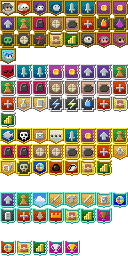
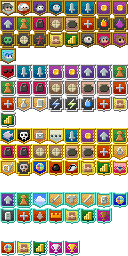
v0.0.7.1 New items added/Major bug fixed

Changed region(s): [[0.875, 0.625, 1.0, 0.6875]]

diff --git a/core/src/main/java/com/shatteredpixel/shatteredpixeldungeon/actors/hero/HeroClass.java b/core/src/main/java/com/shatteredpixel/shatteredpixeldungeon/actors/hero/HeroClass.java
@@ -55,12 +55,12 @@ import com.shatteredpixel.shatteredpixeldungeon.items.BrokenSeal;
 import com.shatteredpixel.shatteredpixeldungeon.items.Item;
 import com.shatteredpixel.shatteredpixeldungeon.items.PrincessMirror;
 import com.shatteredpixel.shatteredpixeldungeon.items.SpeedLoader;
+import com.shatteredpixel.shatteredpixeldungeon.items.TengusMask;
 import com.shatteredpixel.shatteredpixeldungeon.items.Waterskin;
 import com.shatteredpixel.shatteredpixeldungeon.items.armor.ClothArmor;
 import com.shatteredpixel.shatteredpixeldungeon.items.artifacts.CloakOfShadows;
 import com.shatteredpixel.shatteredpixeldungeon.items.bags.IceBox;
 import com.shatteredpixel.shatteredpixeldungeon.items.bags.VelvetPouch;
-import com.shatteredpixel.shatteredpixeldungeon.items.bombs.Bomb;
 import com.shatteredpixel.shatteredpixeldungeon.items.food.Food;
 import com.shatteredpixel.shatteredpixeldungeon.items.potions.PotionOfExperience;
 import com.shatteredpixel.shatteredpixeldungeon.items.potions.PotionOfFrost;
@@ -90,7 +90,6 @@ import com.shatteredpixel.shatteredpixeldungeon.items.scrolls.ScrollOfTeleportat
 import com.shatteredpixel.shatteredpixeldungeon.items.scrolls.ScrollOfTerror;
 import com.shatteredpixel.shatteredpixeldungeon.items.scrolls.ScrollOfTransmutation;
 import com.shatteredpixel.shatteredpixeldungeon.items.scrolls.ScrollOfUpgrade;
-import com.shatteredpixel.shatteredpixeldungeon.items.stones.StoneOfBlast;
 import com.shatteredpixel.shatteredpixeldungeon.items.wands.WandOfMagicMissile;
 import com.shatteredpixel.shatteredpixeldungeon.items.weapon.SpiritBow;
 import com.shatteredpixel.shatteredpixeldungeon.items.weapon.firearm.ApachePistol;
@@ -102,13 +101,14 @@ import com.shatteredpixel.shatteredpixeldungeon.items.weapon.melee.Krystallos;
 import com.shatteredpixel.shatteredpixeldungeon.items.weapon.melee.MagesStaff;
 import com.shatteredpixel.shatteredpixeldungeon.items.weapon.melee.RuinSpear;
 import com.shatteredpixel.shatteredpixeldungeon.items.weapon.melee.WornShortsword;
-import com.shatteredpixel.shatteredpixeldungeon.items.weapon.missiles.Javelin;
 import com.shatteredpixel.shatteredpixeldungeon.items.weapon.missiles.ThrowingKnife;
 import com.shatteredpixel.shatteredpixeldungeon.items.weapon.missiles.ThrowingSpike;
 import com.shatteredpixel.shatteredpixeldungeon.items.weapon.missiles.ThrowingStone;
-import com.shatteredpixel.shatteredpixeldungeon.items.weapon.weaponarm.Vendetta;
+import com.shatteredpixel.shatteredpixeldungeon.items.weapon.weaponarm.Draken;
+import com.shatteredpixel.shatteredpixeldungeon.items.weapon.weaponarm.Slash;
+import com.shatteredpixel.shatteredpixeldungeon.items.weapon.weaponarm.Thunderstrike;
+import com.shatteredpixel.shatteredpixeldungeon.items.weapon.weaponarm.Unconsiousness;
 import com.shatteredpixel.shatteredpixeldungeon.messages.Messages;
-import com.shatteredpixel.shatteredpixeldungeon.plants.Sungrass;
 import com.watabou.utils.DeviceCompat;
 
 public enum HeroClass {
@@ -186,14 +186,14 @@ public enum HeroClass {
 		plate.upgrade(8).collect();
 		 **/
 //erase this finish
-		new Vendetta().collect();
-		new PotionOfExperience().collect();
-		new WandOfMagicMissile().collect();
-		new StoneOfBlast().collect();
-		new ScrollOfIdentify().collect();
-		new Bomb().collect();
-		new Sungrass.Seed().collect();
-		new Javelin().collect();
+		Unconsiousness plate = new Unconsiousness();
+		plate.upgrade(10).collect();
+		PotionOfExperience enchan = new PotionOfExperience();
+		enchan.quantity(100).collect();
+		new TengusMask().collect();
+		new Slash().collect();
+		new Draken().collect();
+		new Thunderstrike().collect();
 
 		switch (this) {
 			case WARRIOR:

diff --git a/core/src/main/java/com/shatteredpixel/shatteredpixeldungeon/actors/Char.java b/core/src/main/java/com/shatteredpixel/shatteredpixeldungeon/actors/Char.java
@@ -51,12 +51,14 @@ import com.shatteredpixel.shatteredpixeldungeon.actors.buffs.Cripple;
 import com.shatteredpixel.shatteredpixeldungeon.actors.buffs.Doom;
 import com.shatteredpixel.shatteredpixeldungeon.actors.buffs.Dread;
 import com.shatteredpixel.shatteredpixeldungeon.actors.buffs.FireImbue;
+import com.shatteredpixel.shatteredpixeldungeon.actors.buffs.FlavourBuff;
 import com.shatteredpixel.shatteredpixeldungeon.actors.buffs.Frost;
 import com.shatteredpixel.shatteredpixeldungeon.actors.buffs.FrostImbue;
 import com.shatteredpixel.shatteredpixeldungeon.actors.buffs.Fury;
 import com.shatteredpixel.shatteredpixeldungeon.actors.buffs.Haste;
 import com.shatteredpixel.shatteredpixeldungeon.actors.buffs.Hex;
 import com.shatteredpixel.shatteredpixeldungeon.actors.buffs.Hunger;
+import com.shatteredpixel.shatteredpixeldungeon.actors.buffs.Invisibility;
 import com.shatteredpixel.shatteredpixeldungeon.actors.buffs.LanceBleeding;
 import com.shatteredpixel.shatteredpixeldungeon.actors.buffs.LanceBleedingBullet;
 import com.shatteredpixel.shatteredpixeldungeon.actors.buffs.LancePredationTracker;
@@ -139,6 +141,7 @@ import com.shatteredpixel.shatteredpixeldungeon.items.weapon.melee.RipperWeapon;
 import com.shatteredpixel.shatteredpixeldungeon.items.weapon.melee.WarpBlade;
 import com.shatteredpixel.shatteredpixeldungeon.items.weapon.missiles.MissileWeapon;
 import com.shatteredpixel.shatteredpixeldungeon.items.weapon.missiles.darts.ShockingDart;
+import com.shatteredpixel.shatteredpixeldungeon.items.weapon.weaponarm.Unconsiousness;
 import com.shatteredpixel.shatteredpixeldungeon.levels.Terrain;
 import com.shatteredpixel.shatteredpixeldungeon.levels.features.Chasm;
 import com.shatteredpixel.shatteredpixeldungeon.levels.features.Door;
@@ -540,6 +543,18 @@ public abstract class Char extends Actor {
 						dmg = enemy.HT;
 					}
 				}
+			}
+
+			if (!enemy.isAlive() && this instanceof Hero && hero.belongings.weapon() instanceof Unconsiousness) {
+				new FlavourBuff() {
+					{
+						this.actPriority = 100;
+					}
+					public boolean act() {
+						Buff.affect(Dungeon.hero, Invisibility.class, Unconsiousness.levelOfWeapon);
+						return super.act();
+					}
+				}.attachTo(this);
 			}
 
 			for (ChampionEnemy buff : buffs(ChampionEnemy.class)){

diff --git a/core/src/main/java/com/shatteredpixel/shatteredpixeldungeon/items/Generator.java b/core/src/main/java/com/shatteredpixel/shatteredpixeldungeon/items/Generator.java
@@ -44,6 +44,7 @@ import com.shatteredpixel.shatteredpixeldungeon.items.artifacts.CloakOfShadows;
 import com.shatteredpixel.shatteredpixeldungeon.items.artifacts.DriedRose;
 import com.shatteredpixel.shatteredpixeldungeon.items.artifacts.EtherealChains;
 import com.shatteredpixel.shatteredpixeldungeon.items.artifacts.HornOfPlenty;
+import com.shatteredpixel.shatteredpixeldungeon.items.artifacts.LamentConfiguration;
 import com.shatteredpixel.shatteredpixeldungeon.items.artifacts.MasterThievesArmband;
 import com.shatteredpixel.shatteredpixeldungeon.items.artifacts.OpIntensify;
 import com.shatteredpixel.shatteredpixeldungeon.items.artifacts.SandalsOfNature;
@@ -428,7 +429,7 @@ public class Generator {
 					Krystallos.class,
 					//PsionicBlade.class,
 			};
-			WEP_T1.probs = new float[]{ 1, 0, 1, 1, 1, 1 }; //, 1, 1, 0
+			WEP_T1.probs = new float[]{ 1, 0, 1, 1, 1, 1 }; //, 1, 0
 			
 			WEP_T2.classes = new Class<?>[]{
 					Shortsword.class,
@@ -652,9 +653,10 @@ public class Generator {
 					TimekeepersHourglass.class,
 					UnstableSpellbook.class,
 					AESARadar.class,
-					OpIntensify.class
+					OpIntensify.class,
+					LamentConfiguration.class
 			};
-			ARTIFACT.defaultProbs = new float[]{ 1, 1, 0, 1, 1, 1, 1, 1, 1, 1, 1, 1, 1 };
+			ARTIFACT.defaultProbs = new float[]{ 1, 1, 0, 1, 1, 1, 1, 1, 1, 1, 1, 1, 1, 1 };
 			ARTIFACT.probs = ARTIFACT.defaultProbs.clone();
 		}
 	}

diff --git a/core/src/main/java/com/shatteredpixel/shatteredpixeldungeon/items/artifacts/OpIntensify.java b/core/src/main/java/com/shatteredpixel/shatteredpixeldungeon/items/artifacts/OpIntensify.java
@@ -4,6 +4,7 @@ import com.shatteredpixel.shatteredpixeldungeon.Dungeon;
 import com.shatteredpixel.shatteredpixeldungeon.actors.buffs.Adrenaline;
 import com.shatteredpixel.shatteredpixeldungeon.actors.buffs.ArcaneArmor;
 import com.shatteredpixel.shatteredpixeldungeon.actors.buffs.Barkskin;
+import com.shatteredpixel.shatteredpixeldungeon.actors.buffs.Bleeding;
 import com.shatteredpixel.shatteredpixeldungeon.actors.buffs.Buff;
 import com.shatteredpixel.shatteredpixeldungeon.actors.buffs.FireImbue;
 import com.shatteredpixel.shatteredpixeldungeon.actors.buffs.Foresight;
@@ -18,6 +19,7 @@ import com.shatteredpixel.shatteredpixeldungeon.items.rings.RingOfEnergy;
 import com.shatteredpixel.shatteredpixeldungeon.messages.Messages;
 import com.shatteredpixel.shatteredpixeldungeon.sprites.ItemSpriteSheet;
 import com.shatteredpixel.shatteredpixeldungeon.utils.GLog;
+import com.watabou.utils.Random;
 
 import java.util.ArrayList;
 
@@ -134,6 +136,8 @@ public class OpIntensify extends Artifact {
                     OpIntensify.this.charge++;
                     Item.updateQuickslot();
                 }
+            } else if (cursed && Random.Int(100) == 0){
+                Buff.affect(Dungeon.hero, Bleeding.class).set(5);
             }
             spend(1.0f);
             return true;

diff --git a/core/src/main/java/com/shatteredpixel/shatteredpixeldungeon/items/weapon/weaponarm/Unconsiousness.java b/core/src/main/java/com/shatteredpixel/shatteredpixeldungeon/items/weapon/weaponarm/Unconsiousness.java
@@ -12,10 +12,11 @@ import com.watabou.utils.Random;
 public class Unconsiousness extends MeleeWeapon {
 
     {
-        image = ItemSpriteSheet.DIRK;
+        image = ItemSpriteSheet.UNCONSIOUSNESS;
         hitSound = Assets.Sounds.HIT_STAB;
         hitSoundPitch = 1f;
 
+        weaponarm = true;
         tier = 3;
     }
 
@@ -33,7 +34,7 @@ public class Unconsiousness extends MeleeWeapon {
             Hero hero = (Hero)owner;
             Char enemy = hero.enemy();
             if (enemy instanceof Mob && ((Mob) enemy).surprisedBy(hero)) {
-                //deals 67% toward max to max on surprise, instead of min to max.
+                //deals 50% toward max to max on surprise, instead of min to max.
                 int diff = max() - min();
                 int damage = augment.damageFactor(Random.NormalIntRange(
                         min() + Math.round(diff*0.5f),
@@ -49,9 +50,9 @@ public class Unconsiousness extends MeleeWeapon {
     }
 
     @Override
-    public int proc(Char attacker, Char defender, int i) {
+    public int proc(Char attacker, Char defender, int damage) {
         levelOfWeapon = this.level();
-        return super.proc(attacker, defender, i);
+        return super.proc(attacker, defender, damage);
     }
 
     @Override

diff --git a/core/src/main/java/com/shatteredpixel/shatteredpixeldungeon/sprites/ItemSpriteSheet.java b/core/src/main/java/com/shatteredpixel/shatteredpixeldungeon/sprites/ItemSpriteSheet.java
@@ -456,7 +456,7 @@ public class ItemSpriteSheet {
 	public static final int DRAKEN				= WEAPONARMS+9;
 	static{
 		assignItemRect(VENDETTA 				,16, 16);
-		assignItemRect(STRIDENT 				,15, 15);
+		assignItemRect(STRIDENT 				,16, 16);
 		assignItemRect(UNCONSIOUSNESS 			,16, 16);
 		assignItemRect(HELLBLASTER	 			,16, 16);
 		assignItemRect(RAIDEN					,16, 16);
@@ -629,6 +629,7 @@ public class ItemSpriteSheet {
 	public static final int ARTIFACT_ROSE3      = ARTIFACTS+22;
 	public static final int ARTIFACT_RADAR		= ARTIFACTS+23;
 	public static final int ARTIFACT_PLUS		= ARTIFACTS+24;
+	public static final int ARTIFACT_LAMENT		= ARTIFACTS+25;
 	static{
 		assignItemRect(ARTIFACT_CLOAK,      9,  15);
 		assignItemRect(ARTIFACT_ARMBAND,    16, 11);
@@ -655,6 +656,7 @@ public class ItemSpriteSheet {
 		assignItemRect(ARTIFACT_ROSE3,      13, 15);
 		assignItemRect(ARTIFACT_RADAR,      16, 16);
 		assignItemRect(ARTIFACT_PLUS,       16, 16);
+		assignItemRect(ARTIFACT_LAMENT,     16, 16);
 	}
 
 	                                                                                    //16 free slots

diff --git a/core/src/main/java/com/shatteredpixel/shatteredpixeldungeon/Badges.java b/core/src/main/java/com/shatteredpixel/shatteredpixeldungeon/Badges.java
@@ -149,7 +149,7 @@ public class Badges {
 		BOSS_CHALLENGE_2            ( 84 ),
 		GAMES_PLAYED_3              ( 85, true ),
 		HIGH_SCORE_3                ( 86 ),
-		//DM301_KILL					( 87 ),
+		DM301_KILL					( 87 ),
 
 		//platinum
 		ITEM_LEVEL_5                ( 96 ),
@@ -199,6 +199,7 @@ public class Badges {
 		GAMES_PLAYED_4              ( 108, true ),
 		HIGH_SCORE_4                ( 109 ),
 		CHAMPION_1                  ( 110 ),
+		SHOPKEEPER_KILL				( 111 ),
 
 		//diamond
 		BOSS_CHALLENGE_5            ( 120 ),
@@ -1058,6 +1059,22 @@ public class Badges {
 		}
 
 		displayBadge( badge );
+	}
+
+	public static void validateDM301Kill() {
+		if (!local.contains( Badge.DM301_KILL )) {
+			Badge badge = Badge.DM301_KILL;
+			local.add( badge );
+			displayBadge( badge );
+		}
+	}
+
+	public static void validateShopkeeperKill() {
+		if (!local.contains( Badge.SHOPKEEPER_KILL )) {
+			Badge badge = Badge.SHOPKEEPER_KILL;
+			local.add( badge );
+			displayBadge( badge );
+		}
 	}
 	
 	//necessary in order to display the happy end badge in the surface scene

diff --git a/core/src/main/java/com/shatteredpixel/shatteredpixeldungeon/actors/mobs/Mob.java b/core/src/main/java/com/shatteredpixel/shatteredpixeldungeon/actors/mobs/Mob.java
@@ -89,7 +89,6 @@ import com.shatteredpixel.shatteredpixeldungeon.items.weapon.melee.MagesStaff;
 import com.shatteredpixel.shatteredpixeldungeon.items.weapon.melee.MeleeWeapon;
 import com.shatteredpixel.shatteredpixeldungeon.items.weapon.missiles.MissileWeapon;
 import com.shatteredpixel.shatteredpixeldungeon.items.weapon.missiles.darts.Dart;
-import com.shatteredpixel.shatteredpixeldungeon.items.weapon.weaponarm.Unconsiousness;
 import com.shatteredpixel.shatteredpixeldungeon.levels.Level;
 import com.shatteredpixel.shatteredpixeldungeon.levels.features.Chasm;
 import com.shatteredpixel.shatteredpixeldungeon.messages.Messages;
@@ -844,9 +843,6 @@ public abstract class Mob extends Char {
 						FirearmWeapon.Charger.killCount = 0;
 					}
 				}
-			}
-			if (cause == hero && hero.belongings.weapon instanceof Unconsiousness) {
-				Buff.affect(hero, Invisibility.class, Unconsiousness.levelOfWeapon);
 			}
 		}
 

diff --git a/core/src/main/java/com/shatteredpixel/shatteredpixeldungeon/items/scrolls/Scroll.java b/core/src/main/java/com/shatteredpixel/shatteredpixeldungeon/items/scrolls/Scroll.java
@@ -162,11 +162,11 @@ public abstract class Scroll extends Item {
 
 		if (action.equals( AC_READ )) {
 			
-			if (hero.buff(MagicImmune.class) != null){
+			if (hero.buff(MagicImmune.class) != null && !(this instanceof ScrollOfRemoveCurse2)){
 				GLog.w( Messages.get(this, "no_magic") );
-			} else if (hero.buff( Blindness.class ) != null) {
+			} else if (hero.buff( Blindness.class ) != null && !(this instanceof ScrollOfRemoveCurse2)) {
 				GLog.w(Messages.get(this, "blinded"));
-			} else if (hero.belongings.weapon != null && Dungeon.hero.belongings.weapon.weaponarm) {
+			} else if (hero.belongings.weapon != null && Dungeon.hero.belongings.weapon.weaponarm && !(this instanceof ScrollOfRemoveCurse2)) {
 				GLog.w(Messages.get(this, "cant_use"));
 			} else if (hero.buff(UnstableSpellbook.bookRecharge.class) != null
 					&& hero.buff(UnstableSpellbook.bookRecharge.class).isCursed()

diff --git a/core/src/main/java/com/shatteredpixel/shatteredpixeldungeon/actors/mobs/DM301.java b/core/src/main/java/com/shatteredpixel/shatteredpixeldungeon/actors/mobs/DM301.java
@@ -21,6 +21,7 @@
 
 package com.shatteredpixel.shatteredpixeldungeon.actors.mobs;
 
+import com.shatteredpixel.shatteredpixeldungeon.Badges;
 import com.shatteredpixel.shatteredpixeldungeon.Statistics;
 import com.shatteredpixel.shatteredpixeldungeon.actors.Char;
 import com.shatteredpixel.shatteredpixeldungeon.actors.buffs.BlobImmunity;
@@ -73,13 +74,7 @@ public class DM301 extends Mob {
     @Override
     public void die( Object cause ) {
 
-        /*
-        if (Dungeon.isChallenged(Challenges.STRONGER_BOSSES) && Statistics.spawnersAlive == 4){
-            Badges.validateBossChallengeCompleted();
-        } else {
-            Statistics.qualifiedForBossChallengeBadge = false;
-        }
-        */
+        Badges.validateDM301Kill();
         Statistics.enemiesSlain += 2000;
 
         super.die( cause );

diff --git a/core/src/main/java/com/shatteredpixel/shatteredpixeldungeon/actors/buffs/LanceCombo.java b/core/src/main/java/com/shatteredpixel/shatteredpixeldungeon/actors/buffs/LanceCombo.java
@@ -209,7 +209,7 @@ public class LanceCombo extends Buff implements ActionIndicator.Action {
 	}
 
 	public void useMove(ComboMove move){
-		if (Dungeon.hero.subClass == HeroSubClass.PHALANX) {
+		if (Dungeon.hero.subClass == HeroSubClass.PHALANX && count == 0) {
 			if (Random.Int(6) == 0) {
 				Buff.affect( hero, Bless.class, 3f);
 			} else if (Random.Int(6) == 1) {
@@ -222,7 +222,7 @@ public class LanceCombo extends Buff implements ActionIndicator.Action {
 					hero.sprite.showStatus( CharSprite.POSITIVE, Integer.toString( barrAmt ) );
 				}
 			} else if (Random.Int(6) == 3) {
-				Buff.affect( hero, Haste.class, 2);
+				Buff.affect( hero, Haste.class, 3);
 			} else if (Random.Int(6) == 4) {
 				Buff.affect( hero, ArtifactRecharge.class).prolong(3);
 			} else if (Random.Int(6) == 5) {

diff --git a/core/src/main/java/com/shatteredpixel/shatteredpixeldungeon/actors/mobs/ShopKeeperBoss.java b/core/src/main/java/com/shatteredpixel/shatteredpixeldungeon/actors/mobs/ShopKeeperBoss.java
@@ -1,5 +1,7 @@
 package com.shatteredpixel.shatteredpixeldungeon.actors.mobs;
 
+import com.shatteredpixel.shatteredpixeldungeon.Badges;
+import com.shatteredpixel.shatteredpixeldungeon.Statistics;
 import com.shatteredpixel.shatteredpixeldungeon.actors.Char;
 import com.shatteredpixel.shatteredpixeldungeon.actors.buffs.Bleeding;
 import com.shatteredpixel.shatteredpixeldungeon.actors.buffs.Buff;
@@ -52,6 +54,16 @@ public class ShopKeeperBoss extends Mob {
         Buff.affect(enemy, Vertigo.class, 2f);
 
         return damage;
+    }
+
+    @Override
+    public void die( Object cause ) {
+
+        Badges.validateShopkeeperKill();
+        Statistics.enemiesSlain += 3000;
+
+        super.die( cause );
+
     }
 
 }
